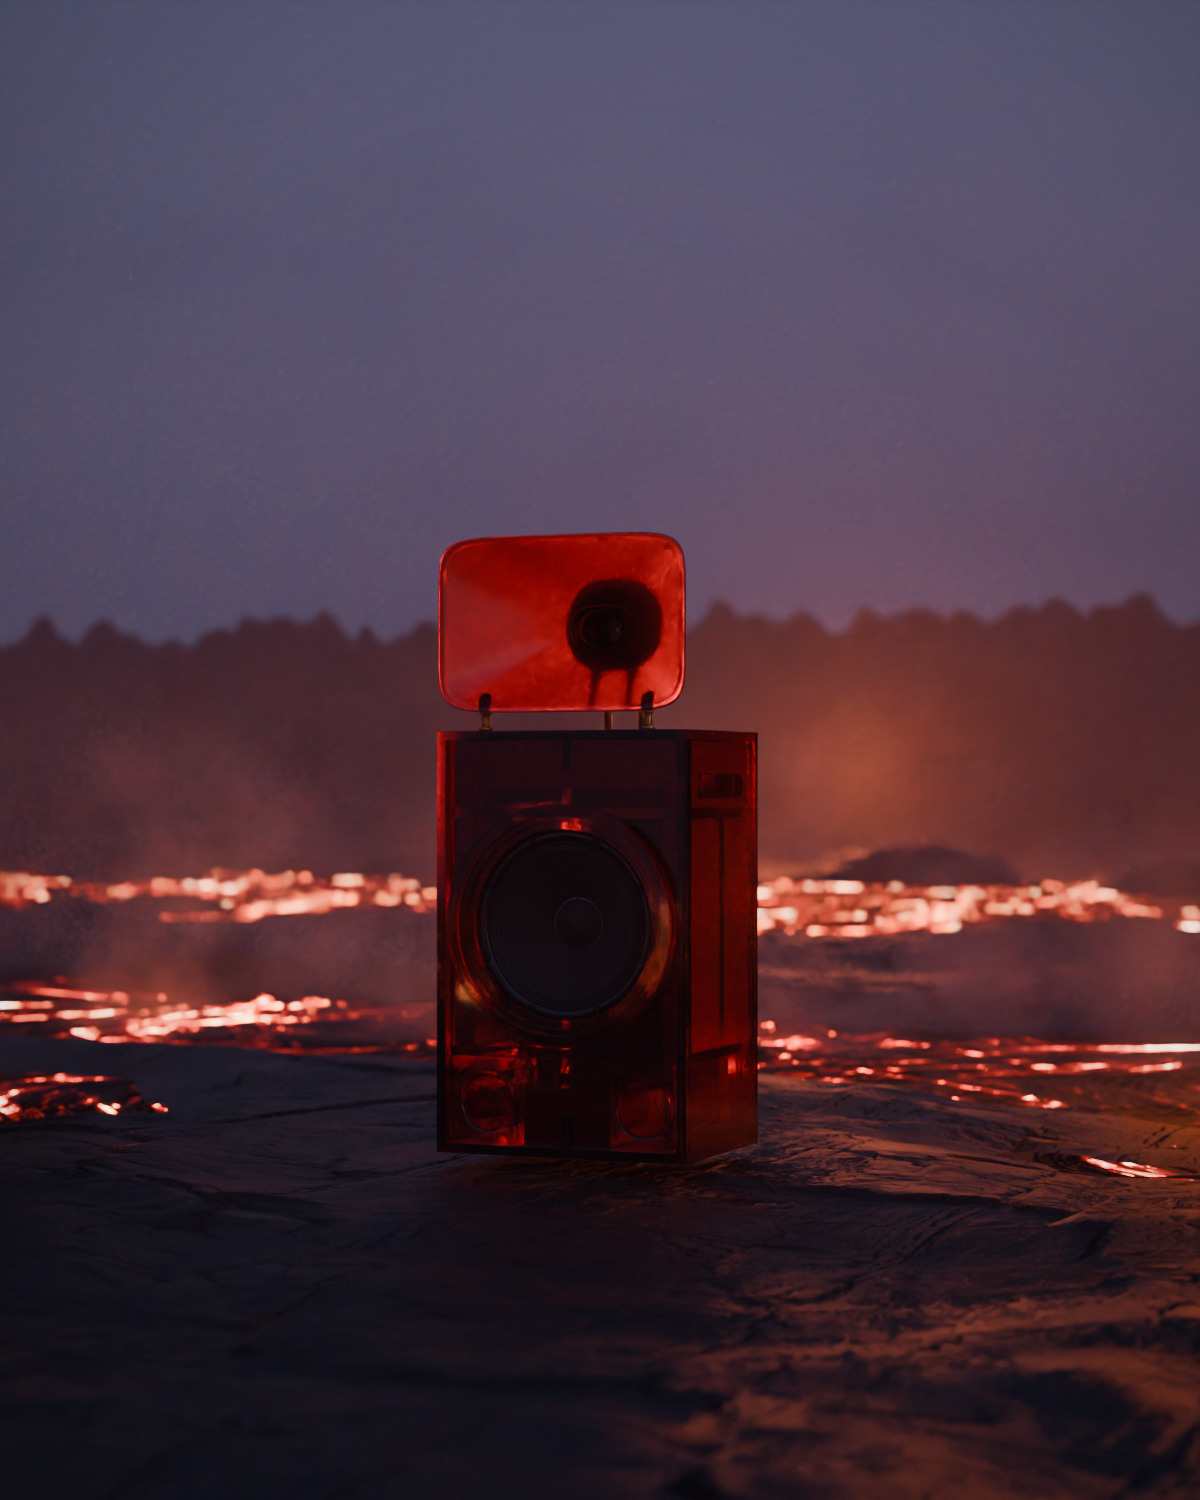
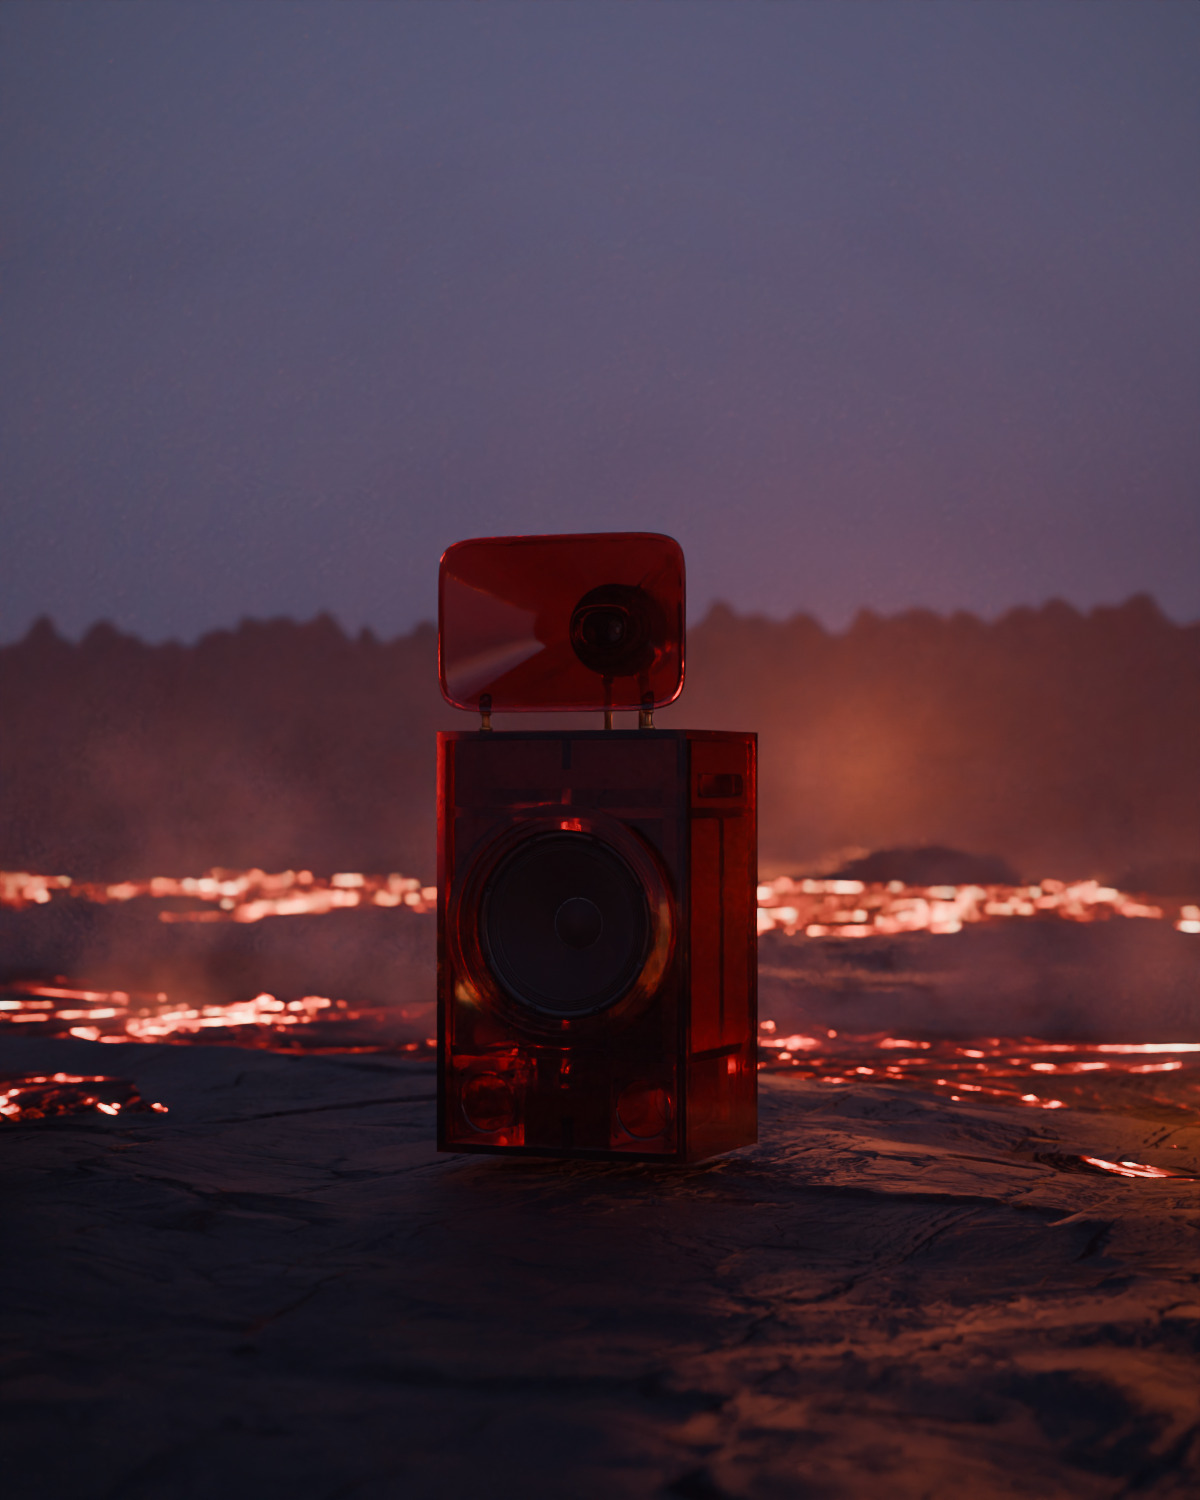
biomes: Ember with the polished horn, the gate: all four PASS (horn red 57 against the side 69; satin was 120)
Claude-Session: https://claude.ai/code/session_01BAaPTnGwdpP4WKGVD3vbqx

Changed region(s): [[0.3392, 0.3373, 0.5858, 0.4907]]

diff --git a/renders/2026-11-03/barkhorn/habitats/CHECK.md b/renders/2026-11-03/barkhorn/habitats/CHECK.md
@@ -20,8 +20,8 @@ Withdrawn:
 
 | Habitat | see_through | grounded | no_light_down | smooth_horn | Notes |
 |---|---|---|---|---|---|
-| Ember (satin) | PASS | PASS | PASS | PASS | rotate_z -1, crack_r on the speaker at 2.0, camera at 0.8 m, 96 samples. At 390 px the ground under the base is 14.8, the base 13.6 and open ground 45.9. The peak along the foot is 60 (it was 181). The woofer, surround, braces, posts and ports show through the front and side, and the driver shows through the horn. The contact band is continuous. |
 | Haze (satin) | PASS | PASS | PASS | PASS | 96 samples. Dark violet acrylic: the woofer, ring, ports, braces and left frame show through, and no face is milky. The base sits in the grass with a continuous dark contact shadow. The horn is pale lavender and backlit by the low sun, lighter than the cabinet, the same satin-backlight look as Ember (held for the horn-finish call). The driver and its struts show through it sharply. |
 | Dust (polished) | PASS | PASS | PASS | PASS | Sand bounce 0.35, no tumbleweed, 64 samples. Amber-red acrylic: the woofer, ring, braces, ports, crossover box, its screws and the desert behind show through. The rail sits on the ripples: luma 81 under the front edge against 107 for open sand. The contact shadow is weak. The red patch is the tinted shadow. The horn is a smooth glassy shell, with the driver showing as a smooth bulb and no X. |
 | Ice (polished) | PASS | PASS | PASS | PASS | Bedded 22 mm, 64 samples. The woofer, ring, braces, ports and posts show through the front, and the cabin window shows through the side. The bottom batt is clearly in view (`ice-portrait-batt-crop.jpg`, 2x). A dark contact band: luma 108 under the base against 121-123 for open snow. No glow. The horn is a smooth glassy shell with the driver at its throat and no X. |
 | Fog (polished) | PASS | PASS | PASS | PASS | Sun at 110 (side, not behind), 96 samples, 48 min. Clear birch: the woofer frame, braces, shelves, ports, terminal plate, and the rock and grass behind show through. The base sits down in the grass with a dark shadow, the contact line mostly hidden by blades. No glow. The polished horn is clear, with faint corner creases and refraction, no X. |
+| Ember (polished) | PASS | PASS | PASS | PASS | rotate_z -1, crack_r 2.0, camera at 0.8 m, bedded 12 mm, 96 samples. Deep red acrylic: the woofer, surround, braces and ports show through. The contact shadow is continuous. No glow. The horn is a smooth tinted shell with the driver at its throat. Horn red is 57 (p90 76) against the side face 69; in satin it was 120 (p90 165), so the "tail-light" is gone. |
